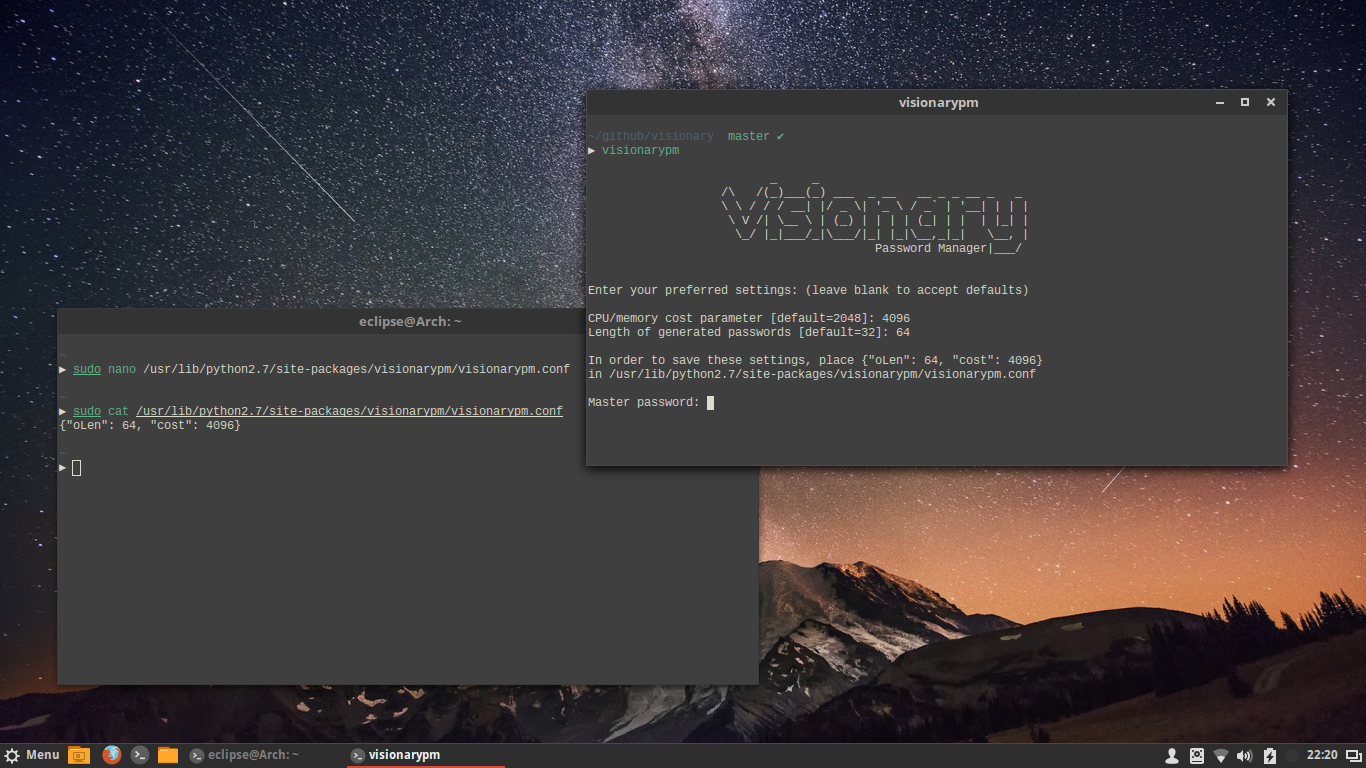
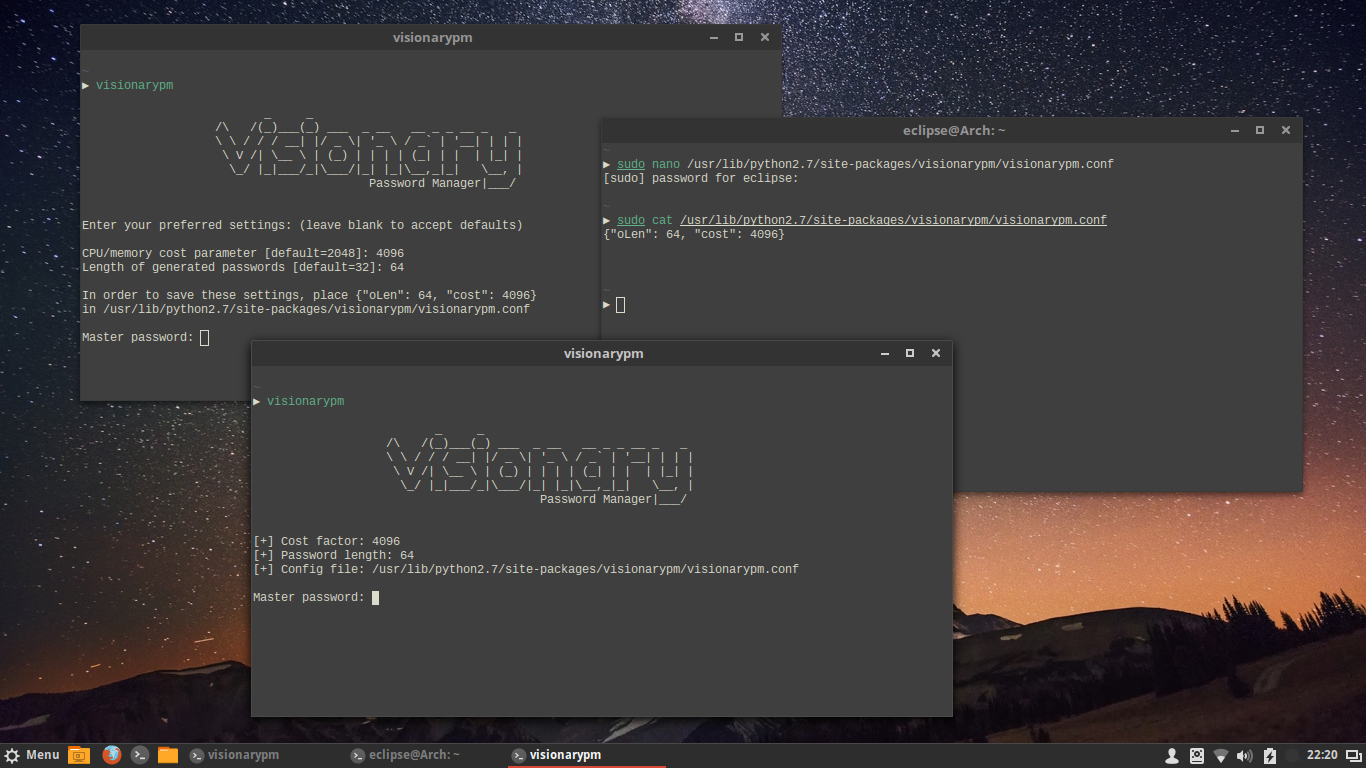
Added printing current config for clarity.

diff --git a/visionarypm/__init__.py b/visionarypm/__init__.py
@@ -67,31 +67,33 @@ def get_defaults():
     
 def getPath():
     try:
-        return os.path.dirname(os.path.abspath(__file__))
+        return '%s/visionarypm.conf' % os.path.dirname(os.path.abspath(__file__))
     except:
         print '\nCannot get path. Are you sure you\'re not running Visionary from IDLE?'
         raise SystemExit
 
-def getConfig():    
-    path = getPath()
+def getConfig():
     try:
-        with open(path + '/visionarypm.conf') as f:
+        with open(path) as f:
             config = json.loads(f.read().strip())
-        return config
+        return config, 0
     except IOError:
         config = get_defaults()
         print 'In order to save these settings, place %s' % json.dumps(config)
-        print 'in %s\n' % (path + '/visionarypm.conf')
-        return config
+        print 'in %s\n' % (path)
+        return config, 1
 
 # Global parameters
 params = {}
+path = getPath()
 
 def main(first_run=True):
-    if first_run ==  True:
+    if first_run == True:
         print '%s\n' % (banner())
         global params
-        params = getConfig()
+        params, stat = getConfig()
+        if stat == 0:
+            print '[+] Cost factor: %s\n[+] Password length: %s\n[+] Config file: %s\n' % (params['cost'], params['oLen'], path)
     try:
         master_password = getpass('Master password: ')
     except KeyboardInterrupt:

diff --git a/setup.py b/setup.py
@@ -1,7 +1,7 @@
 from setuptools import setup
 
 setup(name='visionarypm',
-      version='0.5.4',
+      version='0.5.5',
       description='A smarter password manager.',
       url='https://github.com/libeclipse/visionary',
       author='libeclipse',
